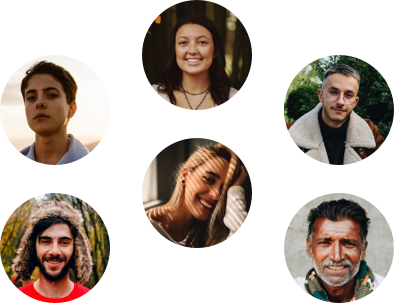
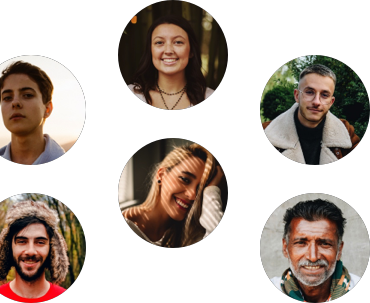
fixing images issues

diff --git a/styles.css b/styles.css
@@ -180,9 +180,8 @@ footer > *,
 }
 
 .image-hero {
-  max-width: 100%;
+  width: 100%;
   grid-column: 1 / span 3;
-  /* transform: scale(1.12); */
 }
 
 .image-hero-left,
